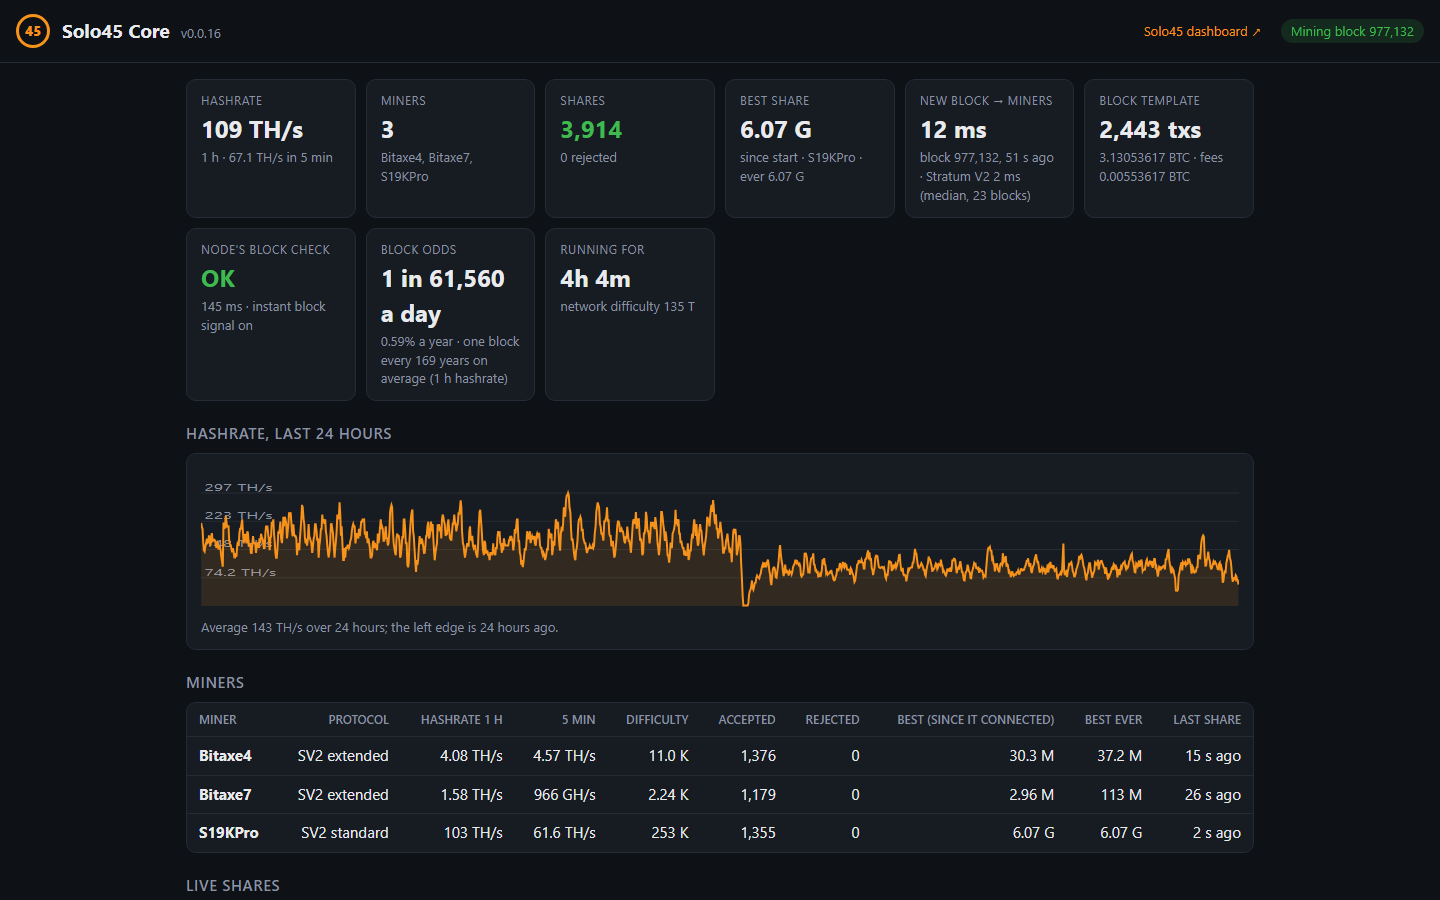
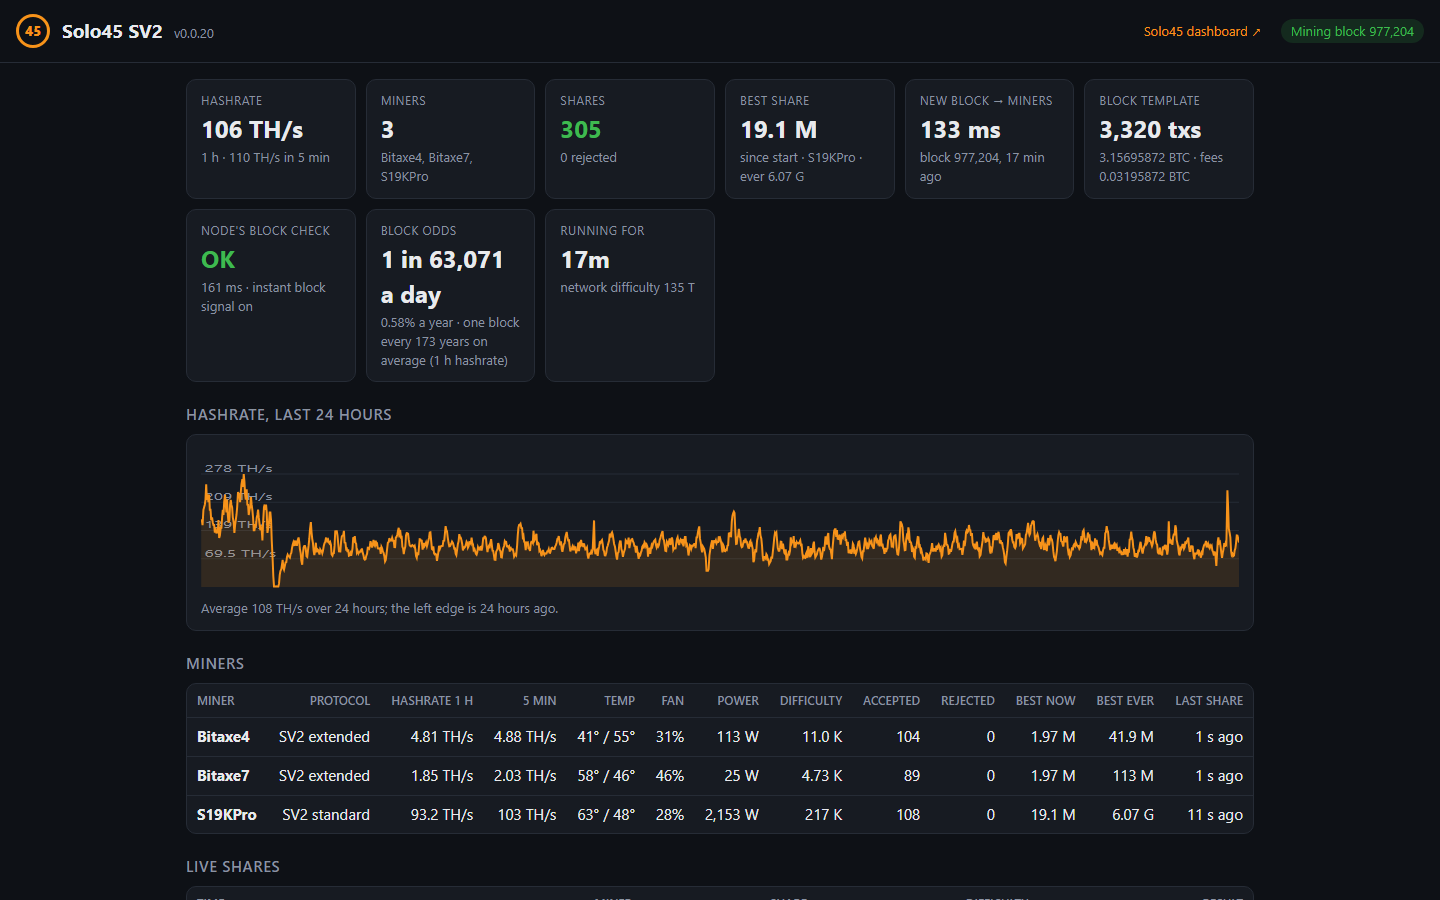
README: new screenshots (Solo45 SV2 0.0.20, miner temperature/fan/watts; screenshot mode)

diff --git a/README.md b/README.md
@@ -48,7 +48,7 @@ Planned: job declaration, a proxy mode and public stats pages.
 ## Screenshots
 
 The status page, live on the author's Umbrel (screenshot mode: payout address and miner IPs hidden). Three miners
-on Stratum V2 (two Bitaxes on extended channels, an Antminer S19K Pro on Braiins OS on a standard channel), new
+on Stratum V2 (two Bitaxes on extended channels, an Antminer S19K Pro on Braiins OS on a standard channel) with their temperature, fan and watts, new
 block work to every miner in a few milliseconds, 0 rejected shares.
 
 <p align="center"><img src="docs/gallery/1-overview.png" alt="Solo45 SV2 status page" width="78%">
@@ -72,7 +72,7 @@ docker run -d --name solo45-core -p 3346:3346 -v $PWD/data:/data \
   -e SOLO45_DATA_DIR=/data -e SOLO45_WEB_PORT=8346 \
   -e BITCOIN_RPC_URL=http://<node>:8332/ -e BITCOIN_RPC_USER=<user> -e BITCOIN_RPC_PASS=<pass> \
   -e BITCOIN_ZMQ_HASHBLOCK=tcp://<node>:28332 \
-  ghcr.io/race45race/solo45-core:v0.0.20
+  ghcr.io/race45race/solo45-core:v0.0.18
 ```
 
 The status page (port 8346) only answers the machine itself and the container's gateway; reach it through a
